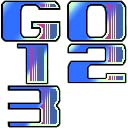
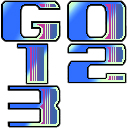
cleaned number countdown presentation and added control lock during countdown

diff --git a/tbd_project_name/src/script.js b/tbd_project_name/src/script.js
@@ -1,7 +1,7 @@
 // import threejs
 import './style.css';
 // import * as THREE from 'three';
-import {TextureLoader, Scene, MeshBasicMaterial, MeshMatcapMaterial, MeshPhongMaterial, Color, DirectionalLight, AmbientLight, PerspectiveCamera, Vector3, WebGLRenderer, Clock, Quaternion, ArrowHelper, AnimationMixer, MeshToonMaterial, Euler} from 'three';
+import {TextureLoader, Scene, MeshBasicMaterial, MeshMatcapMaterial, MeshPhongMaterial, Color, DirectionalLight, AmbientLight, PerspectiveCamera, Vector3, WebGLRenderer, Clock, Quaternion, ArrowHelper, AnimationMixer, MeshToonMaterial, Euler, NearestFilter, RepeatWrapping} from 'three';
 // import { OrbitControls } from 'three/examples/jsm/controls/OrbitControls.js';
 // import * as dat from 'dat.gui';
 import { GLTFLoader } from 'three/examples/jsm/loaders/GLTFLoader.js';
@@ -117,16 +117,43 @@ function addEnv() {
         let env = gltf.scene;
         env.scale.set(1,1,1);
 
+        console.log(gltf.scene)
+
         let roadParent = undefined;
         let gateParent = undefined;
+        let startingLine = undefined;
         // let i=0;
         // while (i<gltf.scene.children.length && !(roadParent && gateParent)) {
         for (let i=0; i<gltf.scene.children.length; i++) {
-            if (gltf.scene.children[i].name === "roadGroupParent") {
-                roadParent = gltf.scene.children[i];
-            } else if (gltf.scene.children[i].name === "gateGroupParent") {
-                gateParent = gltf.scene.children[i];
+            let obj = gltf.scene.children[i];
+            // if (gltf.scene.children[i].name === "roadGroupParent") {
+            //     roadParent = gltf.scene.children[i];
+            // } else if (gltf.scene.children[i].name === "gateGroupParent") {
+            //     gateParent = gltf.scene.children[i];
+            // } 
+            // console.log(obj)
+            switch(obj.name) {
+                case "roadGroupParent":
+                    roadParent = obj;
+                    break;
+                case "gateGroupParent":
+                    gateParent = obj;
+                    break;
+                case "raceStartingLine":
+                    startingLine = obj;
+                default:
             }
+        }
+        if (startingLine) {
+            let mat = startingLine.material;
+            mat.map = textureLoader.load('fanfare/race_start/checker.jpg');
+            mat.map.wrapS = RepeatWrapping;
+            mat.map.wrapT = RepeatWrapping;
+            mat.map.magFilter = NearestFilter;
+            startingLine.scale.set(-1,1,-1);
+            mat.emissive = new Color(0xFFFFFF)
+            mat.emissiveMap = mat.map;
+            mat.emissiveIntensity = .7;
         }
         if (gateParent) arrRaceGates.gates = gateParent.children;
         if (roadParent) meshesMaterial(roadParent.children, matRails);
@@ -193,32 +220,37 @@ function addRaceFont() {
         gltf.scene.scale.set(10,10,10)
         gltf.scene.position.set(70,0,0)
         // console.log(fanfare.raceFont);
-        raceManager.fanfare.raceFont = gltf;
+        raceManager.fanfare.raceFont = {}
+        raceManager.fanfare.raceFont.obj = gltf;
 
         gltf.scene.rotation.set(0,Math.PI * 0.5,0)
         
 
         const animMixer = new AnimationMixer(gltf.scene)
         const animAction = animMixer.clipAction(gltf.animations[0])
+        raceManager.fanfare.raceFont.animAction = animAction;
+        console.log(raceManager.fanfare)
         animAction.timeScale = 62;
-        animAction.play();
+        // animAction.play();
         animMixers.push(animMixer);
 
-        console.log(gltf.scene.children[0].children[5].material);
+        // console.log(gltf.scene.children[0].children[5].material);
         // gltf.scene.children[0].children[5].material = matRails
         let mat = gltf.scene.children[0].children[5].material;
         let texMap = textureLoader.load('fanfare/race_start/racingFont.jpg');
+        texMap.magFilter = NearestFilter;
         texMap.flipY = false;
         mat.map = texMap;
         mat.alphaMap = textureLoader.load('fanfare/race_start/racingFontAlpha.jpg');
         mat.alphaMap.flipY = false;
         mat.transparent = true;
         mat.alphaTest = 0.5;
-        console.log(mat.map)
+        // console.log(mat.map)
         mat.needsUpdate = true;
         // mat.color = new Color(0xFFFFFF)
-        // mat.emissive = new Color(0xFFFFFF)
-        // mat.emissiveIntensity = 0.5;
+        mat.emissive = new Color(0xFFFFFF)
+        mat.emissiveMap = texMap;
+        mat.emissiveIntensity = 1;
         mat.reflectivity = 0
         // mat.map.offset = [1,1];
 
@@ -438,7 +470,7 @@ function tryTick() {
         clearInterval(prepTick); // clear interval first thing so if any functions fail, we don't spam this interval
 
         arrRacers[0].isPlayer = true;
-        arrRacers[0].bindControls();
+        // arrRacers[0].bindControls();
         playCam.player = arrRacers[0];
         arrRacers[0].cam = playCam;
 
@@ -447,7 +479,7 @@ function tryTick() {
         raceManager.raceGates = arrRaceGates.gates;
         raceManager.sortRaceGates();
         raceManager.raceLineup();
-        raceManager.raceCountdown();
+        // raceManager.raceCountdown();
         
         addArrows();
         console.log("Tick started")

diff --git a/tbd_project_name/src/race.js b/tbd_project_name/src/race.js
@@ -30,6 +30,9 @@ export class RaceManager {
             this.racers[i].position = this.position.clone();
             this.racers[i].rotation = this.rotation.clone();
         }
+
+        const that = this;
+        setTimeout(()=>{that.raceCountdown()}, 3000);
     }
 
     raceCountdown() {
@@ -43,10 +46,13 @@ export class RaceManager {
         this.delayCtd1 = () => {that.displayCtdNumber(1)}; // display 1! event object
         this.delayCtd2 = () => {that.displayCtdNumber(2)}; // display 2! event object
         this.delayCtd3 = () => {that.displayCtdNumber(3)}; // display 3! event object
-        setTimeout(this.delayCtd3, 1000); // delay display numbers
-        setTimeout(this.delayCtd2, 2000);
-        setTimeout(this.delayCtd1, 3000);
-        setTimeout(this.delayCtd0, 4000); // delay display GO!
+        setTimeout(this.delayCtd3, 0); // delay display numbers
+        setTimeout(this.delayCtd2, 1000);
+        setTimeout(this.delayCtd1, 2000);
+        setTimeout(this.delayCtd0, 3000); // delay display GO!
+        // this.fanfare.raceFont.animAction.setDuration(1);
+        this.fanfare.raceFont.animAction.setLoop(0,1);
+        this.fanfare.raceFont.animAction.play();
     }
 
     displayCtdNumber(num) {
@@ -56,6 +62,7 @@ export class RaceManager {
             console.log(`COUNTDOWN: ${num}${num}${num}${num}${num}!`);
         } else {
             console.log('### GO! GO! GO! GO! GO! ###');
+            this.racers[0].bindControls();
         }
     }
 

diff --git a/tbd_project_name/src/vehicle.js b/tbd_project_name/src/vehicle.js
@@ -34,7 +34,7 @@ export class Vehicle {
         this.startIntervals();
 
         if (isPlayer) {
-            bindControls();
+            // bindControls();
             this.forwardPressed = false;
             this.backwardPressed = false;
             this.leftPressed = false;
